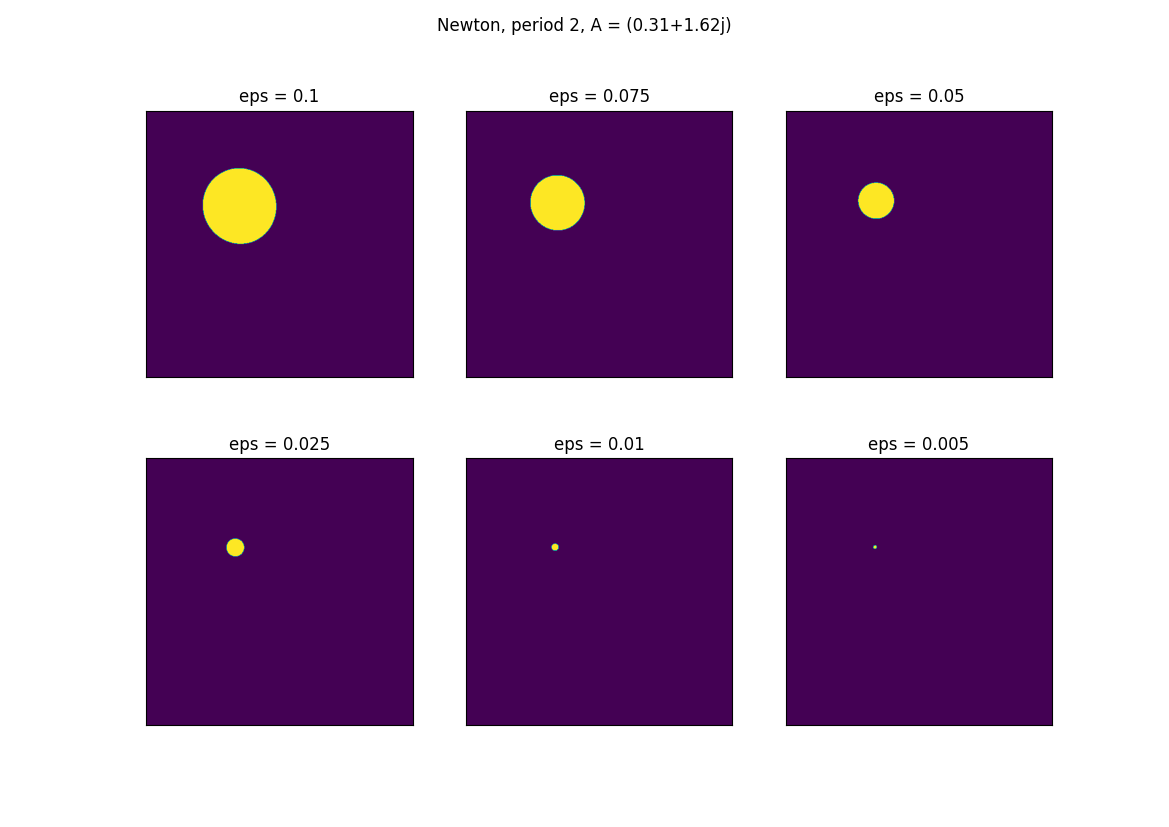
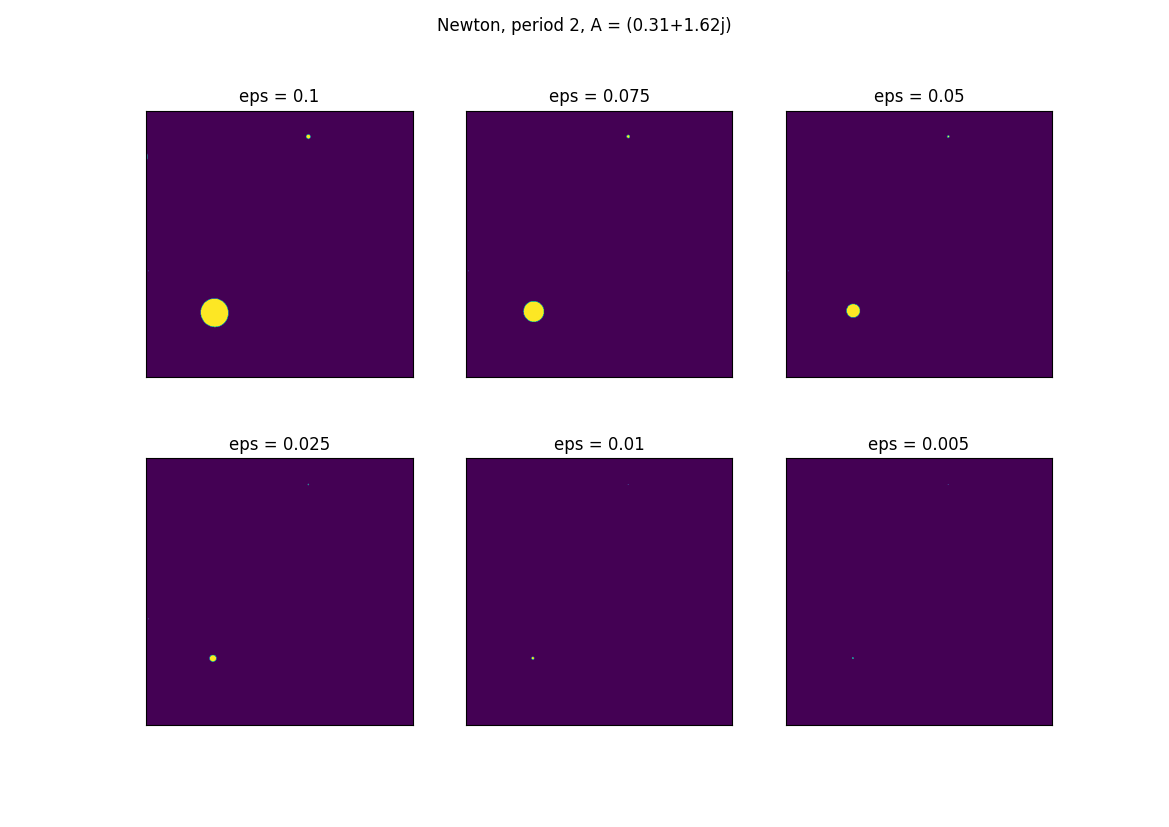
updated newton

diff --git a/ex5/newton.py b/ex5/newton.py
@@ -22,8 +22,8 @@ def N_func(_z):
 
 
 h, w = 600, 600
-xa, xb = 0.75, 1.5
-ya, yb = -0.25, 0.5
+xa, xb = -0.5, 1.5
+ya, yb = -0.5, 1.5
 
 
 def plot_newton(eps, ax):
@@ -33,6 +33,7 @@ def plot_newton(eps, ax):
         for y, im in enumerate(np.linspace(ya, yb, h)):
             z = re + 1j * im
             if abs(N_func(z) ** per - z) < eps:
+                # print(eps, re, im)
                 matrix[x, y] = 1
 
     ax.imshow(matrix)
